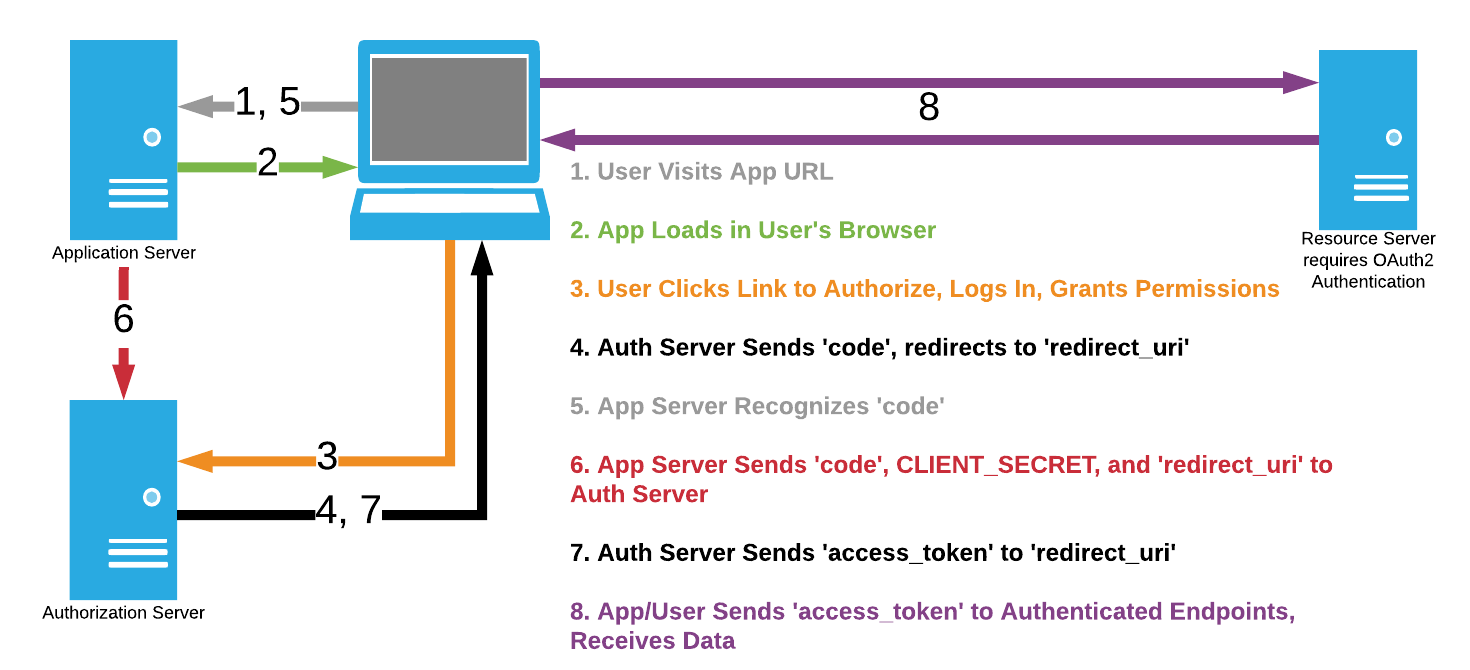
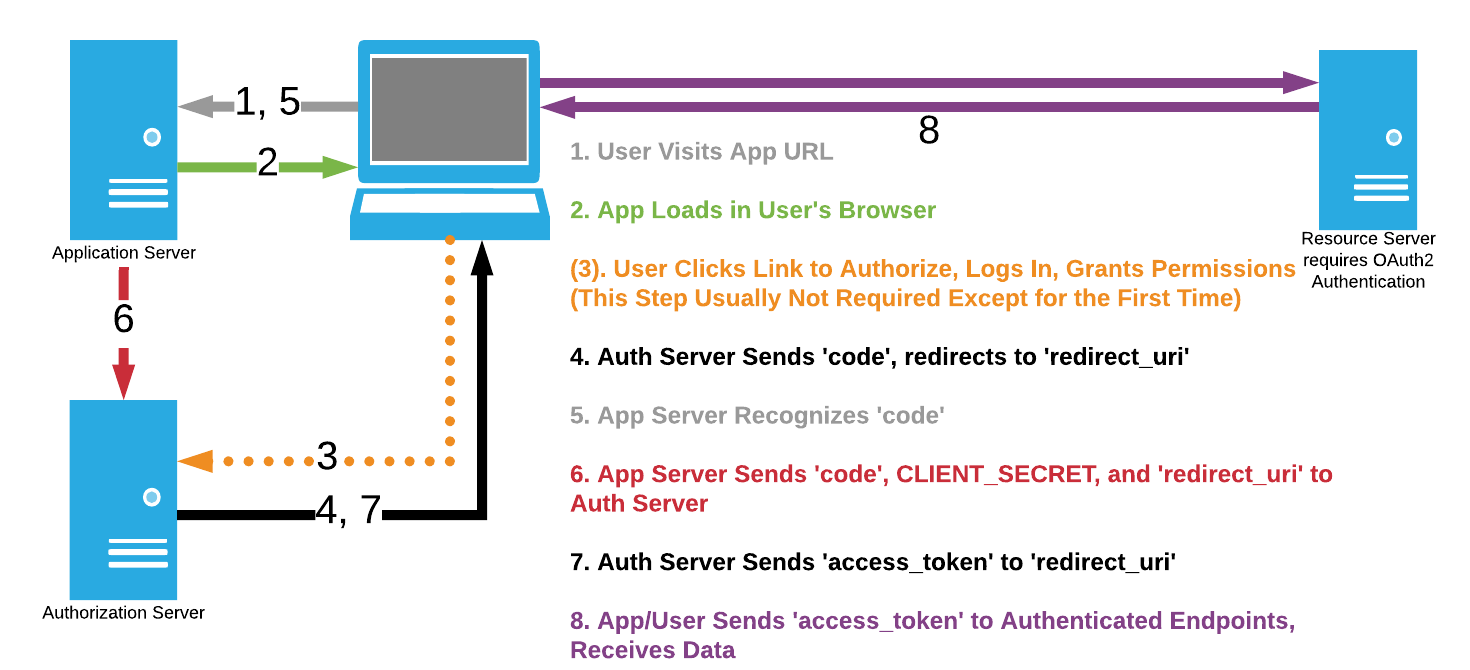
finished round 2 of rcbj's suggested edits/comments

diff --git a/README.md b/README.md
@@ -4,29 +4,40 @@
 ### **Chris Concannon, Consultant at [Levvel](https://www.levvel.io)**
 ---
 
+Source code for the end-result of the demo can be [found here](https://github.com/cconcannon/my-auth-playground).
+
 #### About Single Page Applications
 
 [Single Page Applications (SPAs)](https://medium.com/@pshrmn/demystifying-single-page-applications-3068d0555d46) are the modern solution to deliver feature-rich user interfaces for web applications. Recent developments to SPA frameworks enable [server-side rendering](https://angular.io/guide/universal) to improve search engine optimization and initial load times, two of the major criticisms of such frameworks. One great advantage to serving a SPA is that the SPA can be served as a static asset. SPAs can be served reliably, quickly, and inexpensively via a combination of cloud simple storage (such as [AWS S3](https://aws.amazon.com/s3/)) and a [Content Delivery Network (CDN)](https://developer.mozilla.org/en-US/docs/Glossary/CDN) (such as [AWS Cloudfront](https://aws.amazon.com/cloudfront/)). For example, `https://www.your-single-page-application.com` can be [hosted via AWS S3, Route 53, and Cloudfront for as little as $0.50/month](https://aws.amazon.com/getting-started/projects/host-static-website/). Costs and complexity are reduced by eliminating the need for a dynamic web application server (i.e. [NodeJS](https://nodejs.org/) running [Express](https://expressjs.com/)).
 
 #### What's Hard About Accessing Dynamic Data from a Statically-Served SPA?
 
-Serving an SPA from a static asset server has many benefits, but also creates a security challenge when you require the application to dynamically handle private data (i.e. when you interact with privately-stored user data after the user is authenticated). Such data is often exposed through public APIs that only allow access to authorized applications and users (see: [Google](https://developers.google.com/identity/protocols/OAuth2), [Facebook](https://developers.facebook.com/docs/facebook-login/overview), [Stripe](https://stripe.com/docs/connect/oauth-reference), etc.). The [OAuth 2.0 protocol](https://oauth.net/2/) is perhaps the most commonly used and known set of guidelines for authenticating HTTP requests via publicly-exposed APIs. The [OAuth2 Authorization Code Grant](https://oauth.net/2/grant-types/authorization-code/) process requires an application to submit a `client_secret` as part of the protocol. The `client_secret` is unique to the application, and should never be shared or exposed. **The requirement to hide the `client_secret` is a challenge for statically-served web applications.**
+Serving an SPA from a static asset server has many benefits, but also creates a security challenge when you require the application to dynamically handle private data (i.e. when you interact with privately-stored user data after the user is authenticated). Such data is often exposed through public APIs that only allow access to authorized applications and users (see: [Google](https://developers.google.com/identity/protocols/OAuth2), [Facebook](https://developers.facebook.com/docs/facebook-login/overview), [Stripe](https://stripe.com/docs/connect/oauth-reference), etc.). The [OAuth 2.0 protocol](https://oauth.net/2/) is one of the most commonly used and known set of guidelines for authenticating HTTP requests via publicly-exposed APIs. The [OAuth2 Authorization Code Grant](https://oauth.net/2/grant-types/authorization-code/) process often requires an application to submit a `client_secret` as part of the protocol. The `client_secret` is unique to the application, and should never be shared or exposed. **The requirement to hide the `client_secret` is a challenge for statically-served web applications.**
 
 #### [OAuth2](https://oauth.net/2/) [Authorization Code Grant](https://oauth.net/2/grant-types/authorization-code/) Overview
 
-Traditionally, a dynamic application server (i.e. [NodeJS](https://nodejs.org/) running [Express](https://expressjs.com/)) will store an application's [OAuth2](https://oauth.net/2/) credentials (the `client_secret`) as environment variables. Node exposes these variables via the `process.env` property. When an application owner stores application secrets on the server process, the application can read the `client_secret` value from the server environment without exposing that value to the public. Remember that the `client_secret` is a mandatory piece of the authorization workflow, and should **never** be exposed publicly in the application code.
+Traditionally, a dynamic application server (i.e. [NodeJS](https://nodejs.org/) running [Express](https://expressjs.com/)) will store an application's [OAuth2](https://oauth.net/2/) credentials (the `client_secret`) as environment variables. Node exposes these variables via the `process.env` property. When an application owner stores application secrets on the server process, the application can read the `client_secret` value from the server environment without exposing that value to the public. Remember that the `client_secret` is often required for the authorization workflow, and should **never** be exposed publicly in the application code.
 
 
-![Diagram of OAuth2  [Authorization Code Grant](https://oauth.net/2/grant-types/authorization-code/)](/img/auth_code_oauth2.png)
+![Diagram of [OAuth2](https://oauth.net/2/) [Authorization Code Grant](https://oauth.net/2/grant-types/authorization-code/)](/img/auth_code_oauth2.png)
 *Figure 1. [OAuth2](https://oauth.net/2/) Workflow for Authorization Code Grant, Using a Dynamic Application Server.*
 
-The  [Authorization Code Grant](https://oauth.net/2/grant-types/authorization-code/) depicted in the diagram above is dependent on three-way communication (hence the name Three-Legged OAuth2). The application server receives the `code` parameter from the running application (step 5), and subsequently send a request *including the `client_secret`* directly to the authorization server, without going through the user's browser (step 6). This is not possible for an SPA served from a static asset server. **A static asset server handles two-way communication; it will not handle the three-way communication depicted by steps 4, 5, 6, and 7 above.**
+The  [Authorization Code Grant](https://oauth.net/2/grant-types/authorization-code/) depicted in the diagram above is dependent on three-way communication (hence the name Three-Legged [OAuth2](https://oauth.net/2/)). The application server receives the `code` parameter from the running application (step 5), and subsequently send a request *including the `client_secret`* directly to the authorization server, without going through the user's browser (step 6). This is the expected functionality when the application is a confidential client; however, SPAs are public clients (specifically, user-agent applications). Statically-served SPAs are not designed to protect any application secrets (such as the `client_secret`). **A static asset server handles two-way communication; it will not handle the three-way communication depicted by steps 4, 5, 6, and 7 above.**
 
-*Note: The OAuth2 protocol describes several types of grant types. This post focuses on using the Authorization Code Grant. Another grant type, the Implicit Grant, is designed for mobile applications and single-page applications, where the `client_secret` confidentiality is not guaranteed. The Implicit Grant is not as widely offered, and it does not provide identity verification (whereas the  [Authorization Code Grant](https://oauth.net/2/grant-types/authorization-code/) does). If your use case allows for use of the Implicit Grant, and it is implemented by your target API, then check out [the Implicit Grant documentation](https://tools.ietf.org/html/rfc6749#section-1.3.2). If you require the Authorization Code Grant, carry on!*
+#### A Note on Other Appropriate OAuth 2.0 Protocols
+The [OAuth2](https://oauth.net/2/) protocol describes several types of grant types. This post focuses on using the Authorization Code Grant with a Confidential Client. Other [OAuth2](https://oauth.net/2/) protocol specifications were designed for use in mobile, native, and single-page applications. These are scenarios where the `client_secret` confidentiality is not guaranteed.
+
+One option to consider is the [Implicit Grant](https://oauth.net/2/grant-types/implicit/). The Implicit Grant is not as widely offered, and it does not provide identity verification (whereas the  [Authorization Code Grant](https://oauth.net/2/grant-types/authorization-code/) does). If your use case allows for use of the Implicit Grant, and it is implemented by your target API, then check out [the Implicit Grant documentation](https://tools.ietf.org/html/rfc6749#section-1.3.2).
+
+Another option is the Authorization Code Grant, but with a [Proof Key for Code Exchange (PKCE)](https://oauth.net/2/pkce/). Primarily used in native and mobile apps, PKCE usage is designed for public clients. Unfortunately, is not as widely supported by providers (as using PKCE requires additional support by the authorization server).
+
+This post does not cover implementation of these other [OAuth2](https://oauth.net/2/) options - instead, it demonstrates that a Function-as-a-Service can be used to perform the application server's role in the Authorization Code Grant protocol. This is not a use case that is considered in most literature surrounding the [OAuth2](https://oauth.net/2/) Authorization Code Grant protocol. It is specifically applicable to APIs that require a `client_secret` during the authentication process, and that also provide little or no support for [OAuth2](https://oauth.net/2/) protocols which are designed for public client use. Regardless, the solution put forth in this writing nevertheless provides the inherent level of security provided by the protocol with a confidential client (i.e. a dynamic application server).
+
+For more information about when each grant can be used, check out [this post](https://medium.com/@robert.broeckelmann/when-to-use-which-oauth2-grants-and-oidc-flows-ec6a5c00d864).
 
 #### So, What's at Stake for a Statically-Served SPA?
 
-An application served via static storage ([such as the $0.50/month solution mentioned above](https://aws.amazon.com/getting-started/projects/host-static-website/)) does not have the ability to facilitate three-way communication to complete the authentication process described in the [OAuth2](https://oauth.net/2/) Authorization Code Grant. Therefore, in order to complete the three-legged process, the application would need to perform step 6 above. Step 6 requires sending the `client_secret` to the authorization server, and the application would have to initiate this from the user's browser. This step would cause a security vulnerability (because the `client_secret` should never be exposed publicly!). Techniques (*very bad ideas!*) exist which *attempt* to hide credentials such as the `client_secret` within application code. Some examples of these techniques include the concatenation of credentials to the end of asset identifier strings, or the use of an encryption algorithm with the encryption key stored elsewhere in the application. However, these techniques can be easily hacked, especially when the hacker monitors the traffic coming to and from the application. Using insecure, ill-designed strategies will eventually result in theft of your application secrets.
+An application served via static storage ([such as the $0.50/month solution mentioned above](https://aws.amazon.com/getting-started/projects/host-static-website/)) does not have the ability to facilitate three-way communication to complete the authentication process described in the [OAuth2](https://oauth.net/2/) Authorization Code Grant. Therefore, in order to complete the three-legged process, the application would need to perform step 6 above. Step 6 requires sending the `client_secret` to the authorization server, and the application would have to initiate this from the user's browser. This step would cause a security vulnerability (because the `client_secret` should never be exposed publicly!). Techniques (*very bad ideas!*) exist which *attempt* to hide credentials such as the `client_secret` within application code. Some examples of these techniques include the concatenation of credentials to the end of asset identifier strings, or the use of an encryption algorithm with the encryption key stored elsewhere in the application. However, these techniques can be hacked. Using insecure, ill-designed strategies will eventually result in theft of your application secrets.
 
 Theft of application secrets results in a liability for you, the application owner. If a malicious party obtains your registered application secret for [OAuth2](https://oauth.net/2/) authentication, then stealing all your user's API-exposed data (from the provider API - Slack, Google, etc.) becomes a trivial exercise. This data breach would be 100% your fault; Securely handling privileged application credentials is the application owner's responsibility. It is impossible to securely hide a private value (such as `client_secret`) within statically-served SPA code.
 
@@ -34,17 +45,21 @@ Theft of application secrets results in a liability for you, the application own
 
 So, what do we do if we want our application to access APIs that use [OAuth2](https://oauth.net/2/), but we also want the cost benefits, reliability, speed, and simplicity of serving our application via static storage solutions and a CDN? When using [OAuth2](https://oauth.net/2/) to make API calls from a serverless application, how can you successfully grant your application user an API token without exposing your SPA API secret?
 
-[Functions-as-a-Service (FaaS)](https://medium.com/@BoweiHan/an-introduction-to-serverless-and-faas-functions-as-a-service-fb5cec0417b2), such as [AWS Lambda](https://aws.amazon.com/lambda/), provide a great avenue to solve our problem. Performing the token exchange and renewal with a FaaS such as [AWS Lambda](https://aws.amazon.com/lambda/) is cost-effective, reliable, inherently scalable, and easily maintained. This post will provide an example of [OAuth2](https://oauth.net/2/) user authentication and `access_token` grant, while hiding the SPA application secret behind [AWS API Gateway](https://aws.amazon.com/api-gateway/) and [AWS Lambda](https://aws.amazon.com/lambda/).
+[Functions-as-a-Service (FaaS)](https://medium.com/@BoweiHan/an-introduction-to-serverless-and-faas-functions-as-a-service-fb5cec0417b2), such as [AWS Lambda](https://aws.amazon.com/lambda/), provide a great avenue to solve our problem. Performing the token retrieval and renewal with a FaaS such as [AWS Lambda](https://aws.amazon.com/lambda/) is cost-effective, reliable, inherently scalable, and easier to maintain/update than a server instance. This post will provide an example of [OAuth2](https://oauth.net/2/) user authentication and `access_token` grant, while hiding the SPA application secret behind [AWS API Gateway](https://aws.amazon.com/api-gateway/) and [AWS Lambda](https://aws.amazon.com/lambda/).
 
 ![OAuth2 [Authorization Code Grant](https://oauth.net/2/grant-types/authorization-code/) using AWS Lambda without a Dynamic Application Server](/img/lambda_auth_code_oauth2.png)
 *Figure 2. OAuth2 Flow for Authorization Code Grant, Using AWS Lambda without a Dynamic Application Server*
 
 #### Why the Focus on OAuth2 and AWS Products/Services
 
-This post covers the narrow intersection of OAuth2 with statically-served Single Page Applications served via AWS S3 and AWS API Gateway. The world of serverless application structure and authentication has so many more topics of worthy (and very related) discussion that I won't be addressing, such as [OpenID Connect](http://openid.net/connect/), and competitors to AWS services (such as [Azure Storage](https://azure.microsoft.com/en-us/blog/azure-storage-static-web-hosting-public-preview/)). There are compelling reasons why the difficult intersection of the chosen topics is particularly worth examining separately from broader subjects of authentication and serverless structure. Simply put, my choices are based on a few major factors. AWS provides great documentation, easy free tier setup and use, and useful/relevant developer tools. OAuth2 is a well-proven authentication standard which is relevant to many applications. Portions of [OAuth2](https://oauth.net/2/) protocol are implemented by APIs built by [Slack](https://api.slack.com/docs/oauth), [cloud.gov](https://cloud.gov/docs/apps/leveraging-authentication/), [Google](https://developers.google.com/identity/protocols/OAuth2), [Stripe](https://stripe.com/docs/connect/oauth-reference), [Instagram](https://www.instagram.com/developer/authentication/), [GitHub](https://developer.github.com/apps/building-oauth-apps/), and many more.
+This post covers the narrow intersection of OAuth2 with statically-served Single Page Applications served via AWS S3 and AWS API Gateway. The world of serverless application structure and authentication has so many more topics of worthy (and very related) discussion that I won't be addressing, such as [OpenID Connect](http://openid.net/connect/), and competitors to AWS services (such as [Azure Storage](https://azure.microsoft.com/en-us/blog/azure-storage-static-web-hosting-public-preview/)). There are compelling reasons why the difficult intersection of the chosen topics is particularly worth examining separately from broader subjects of authentication and serverless structure. Simply put, my choices are based on a few major factors:
+- AWS provides great documentation
+- Easy free tier setup and use
+- Useful and relevant developer tools
+- OAuth2 is a well-proven authentication standard which is relevant to many applications
 
 ---
-## Overview
+## Solution Overview
 ---
 
 This post will walk through several steps to achieve our goal of [OAuth2](https://oauth.net/2/) authenticated calls to a public API. The prerequisites are related to:
@@ -53,6 +68,8 @@ This post will walk through several steps to achieve our goal of [OAuth2](https:
 3. Docker
 4. Node, NPM, and Angular CLI
 5. AWS SAM CLI
+
+The final code for this demo application (and Lambda function) can be [found here](https://github.com/cconcannon/my-auth-playground).
 
 ---
 ## Prerequisites
@@ -147,9 +164,7 @@ Once the SAM api is running, open your browser and navigate to [localhost:3000/a
 ![OAuth2 [Authorization Code Grant](https://oauth.net/2/grant-types/authorization-code/) flow](/img/auth_code_oauth2.png)
 *Figure 1. OAuth2 Flow for Authorization Code Grant, Using a Dynamic Application Server*
 
-Figure 1 is shared again here to demonstrate the most common way of implementing [OAuth2 [Authorization Code Grant](https://oauth.net/2/grant-types/authorization-code/)](https://tools.ietf.org/html/rfc6749) with a dynamic application server.
-
-Steps 5-7, after the user authorizes your application for the target API, are the steps that are difficult to handle for statically-served single page applications. The steps after the `code` is sent to your application require your application secret to be sent to the authorization server in order to obtain an access token. Exposing your application secret API credentials publicly is a security risk that could expose your user's data to malicious parties outside your application domain. Anyone with ill intents could observe the user's browser events and begin making authenticated API calls with your application credentials.
+Figure 1 is shared again here to demonstrate the most common way of implementing [OAuth2](https://oauth.net/2/) [Authorization Code Grant](https://oauth.net/2/grant-types/authorization-code/) with a dynamic application server.
 
 We will implement a solution that follows the flow of Figure 2, shared again below.
 
@@ -460,7 +475,7 @@ AWS API Gateway allows quick setup of a publicly exposed endpoint to your Lambda
 ![AWS API Gateway Settings](/img/aws_api_gateway_settings.png)
 *Figure 7: API Gateway Configuration*
 
-**I am not a cloud security expert, and I don't pretend to be one - AWS provides [documentation about controlling access to an API Gateway endpoint](https://docs.aws.amazon.com/apigateway/latest/developerguide/apigateway-control-access-to-api.html). It is possible to restrict access to your endpoint via Virtual Private Cloud, [Lambda Authorizers](https://docs.aws.amazon.com/apigateway/latest/developerguide/apigateway-use-lambda-authorizer.html), and other methods. Use them according to your needs.**
+**I am not a cloud security expert, and I don't pretend to be one - AWS provides [documentation about controlling access to an API Gateway endpoint](https://docs.aws.amazon.com/apigateway/latest/developerguide/apigateway-control-access-to-api.html). It is possible to restrict access to your endpoint via Virtual Private Cloud, [Lambda (custom) Authorizers](https://docs.aws.amazon.com/apigateway/latest/developerguide/apigateway-use-lambda-authorizer.html), and other methods. Use them according to your needs.**
 
 Once your public endpoint and configuration are set up, deploy the API and copy the endpoint from the Dashboard tab on the left of the API Gateway management screen:
 
@@ -485,7 +500,7 @@ retrieveToken(code = this.authCode): Observable<any> {
 ---
 ## Final Comments
 ---
-You can configure the API Gateway and Lambda function to validate and respond to URL path parameters or query parameters. For example, when passing an `access_token` via a GET method, you can write an entire new suite of handler functions for your Lambda function to interface with authenticated GitHub (or other) API endpoints.
+You can configure the API Gateway and Lambda function to validate and respond to URL path parameters or query parameters. At the end of the day, your Lambda function is simply code that runs when you satisfy the requirements of a request to the configured API Gateway endpoint.
 
 You can also configure the API Gateway and Lambda function to run from one specific region in the US, or to optimize for multiple locations. The full suite of AWS cloud configurations and integrations is at your disposal.
 
